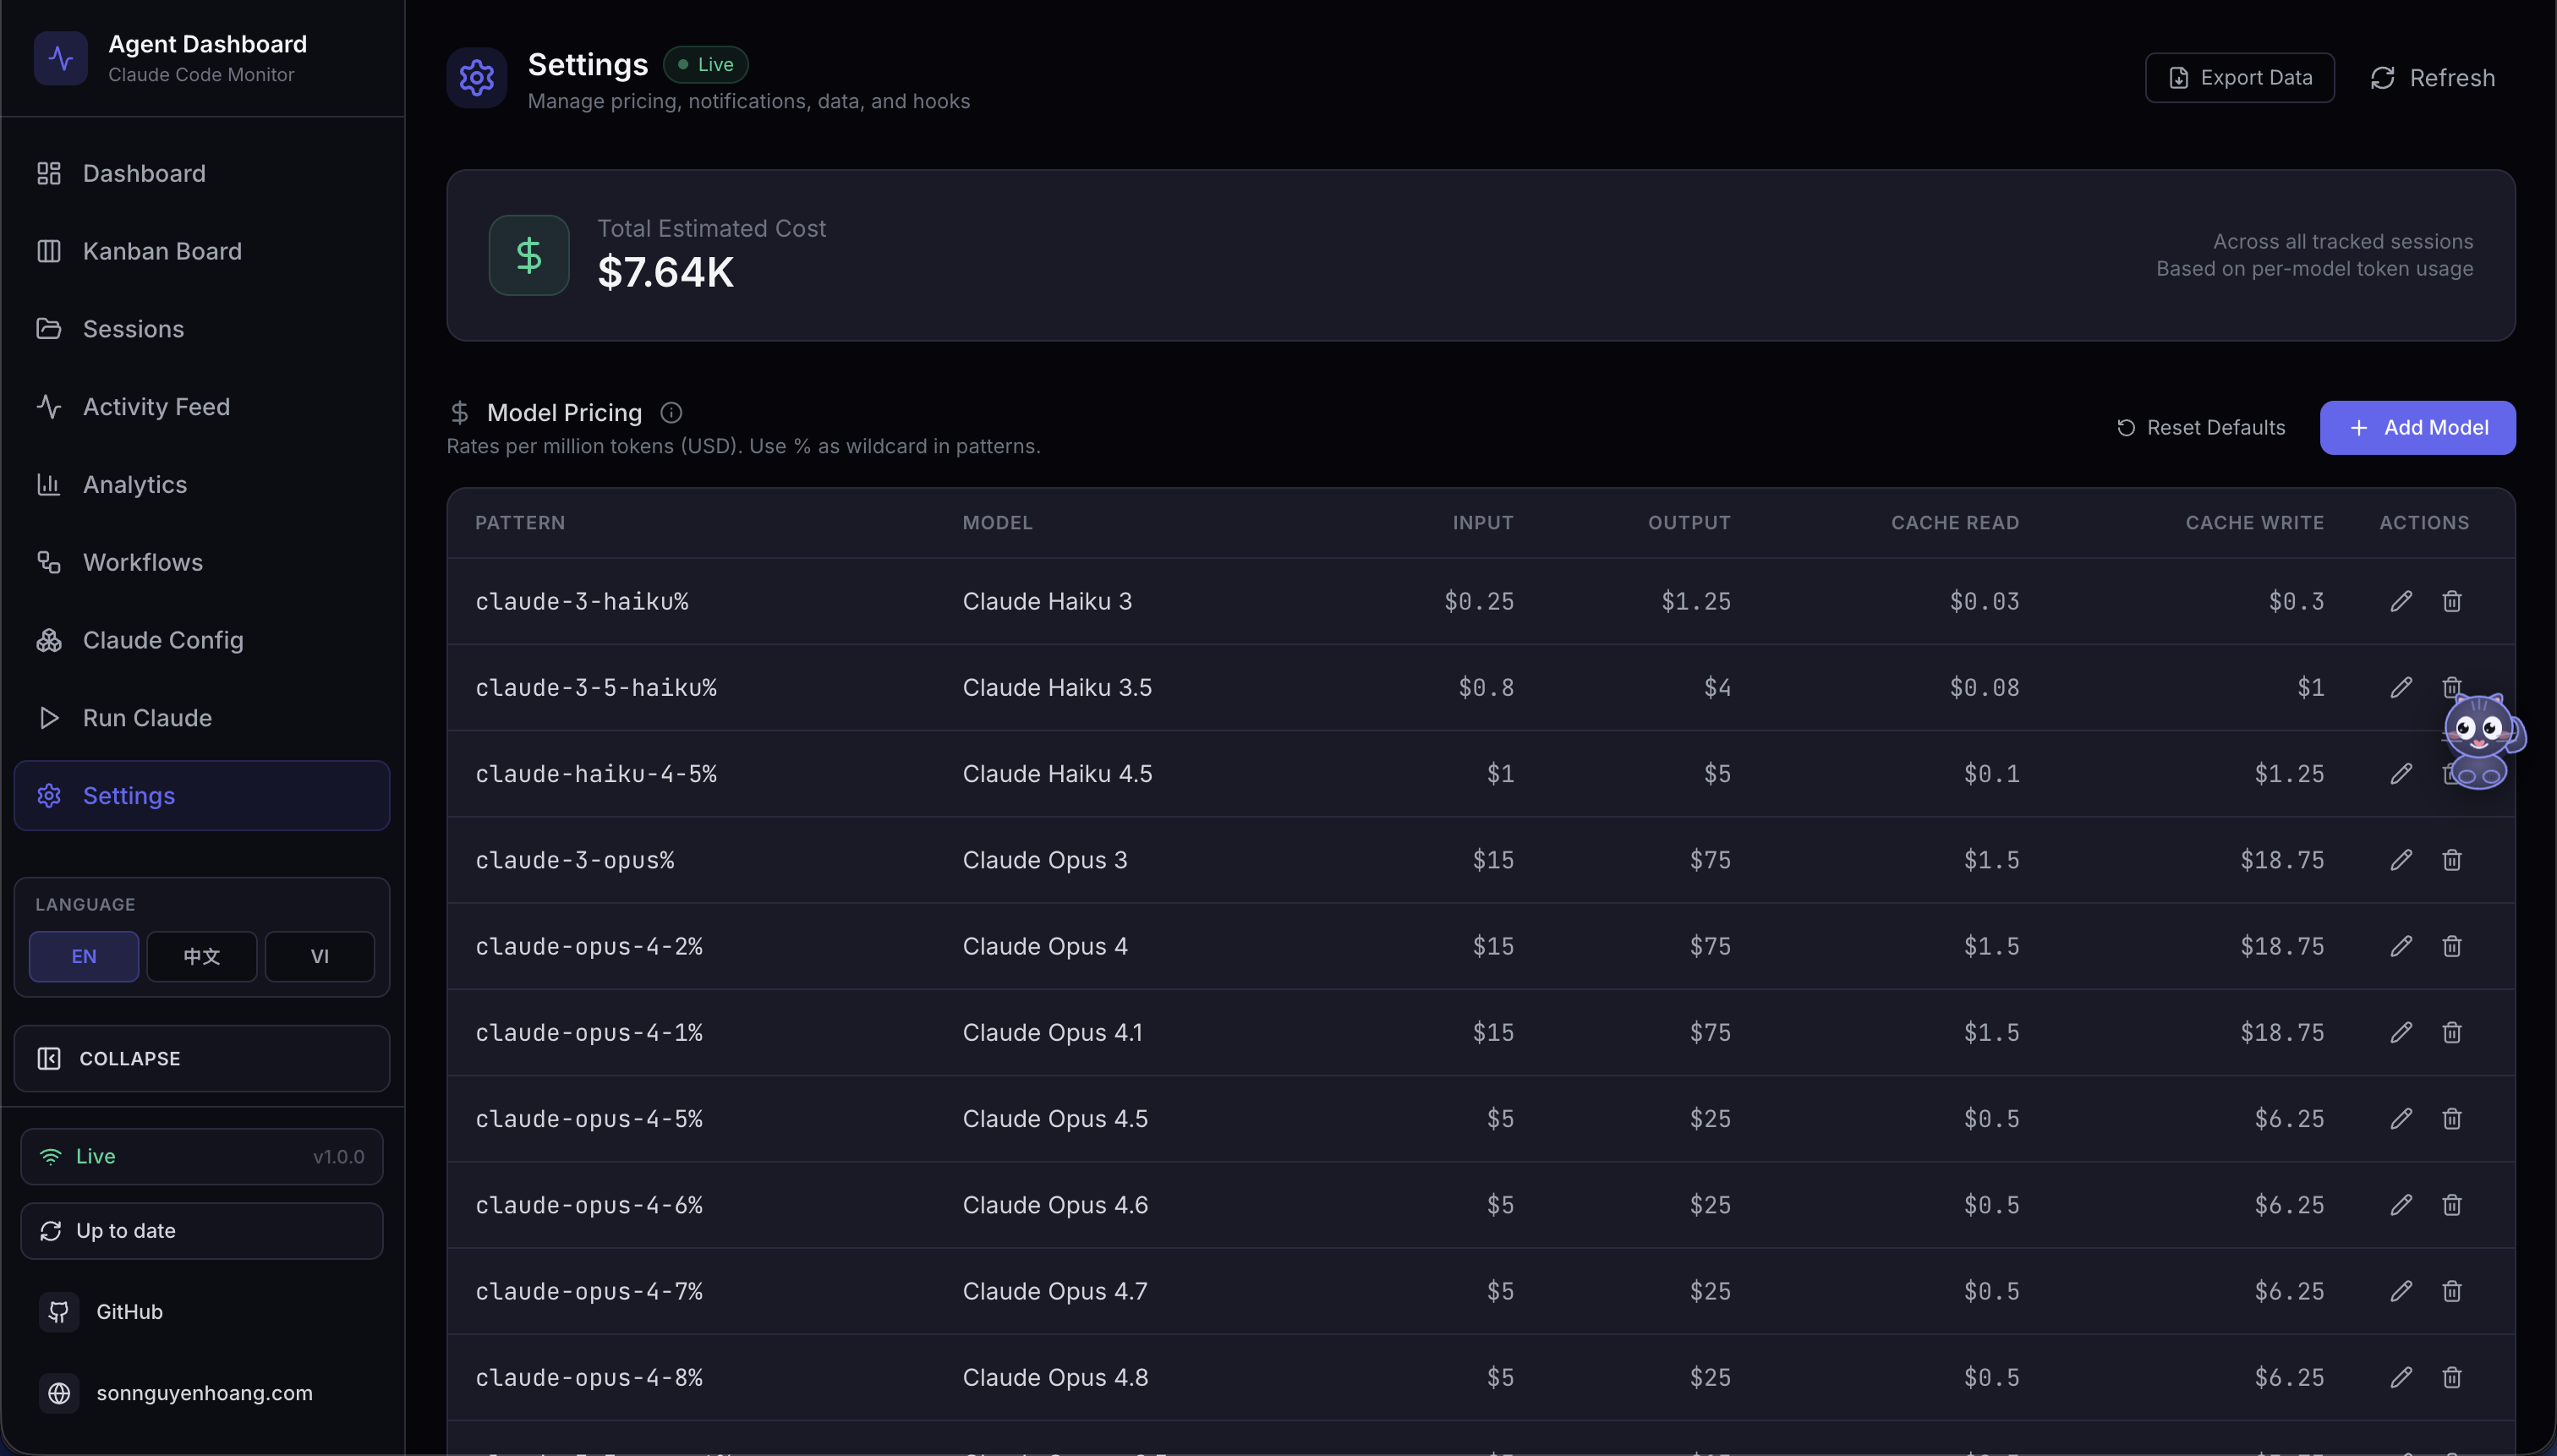
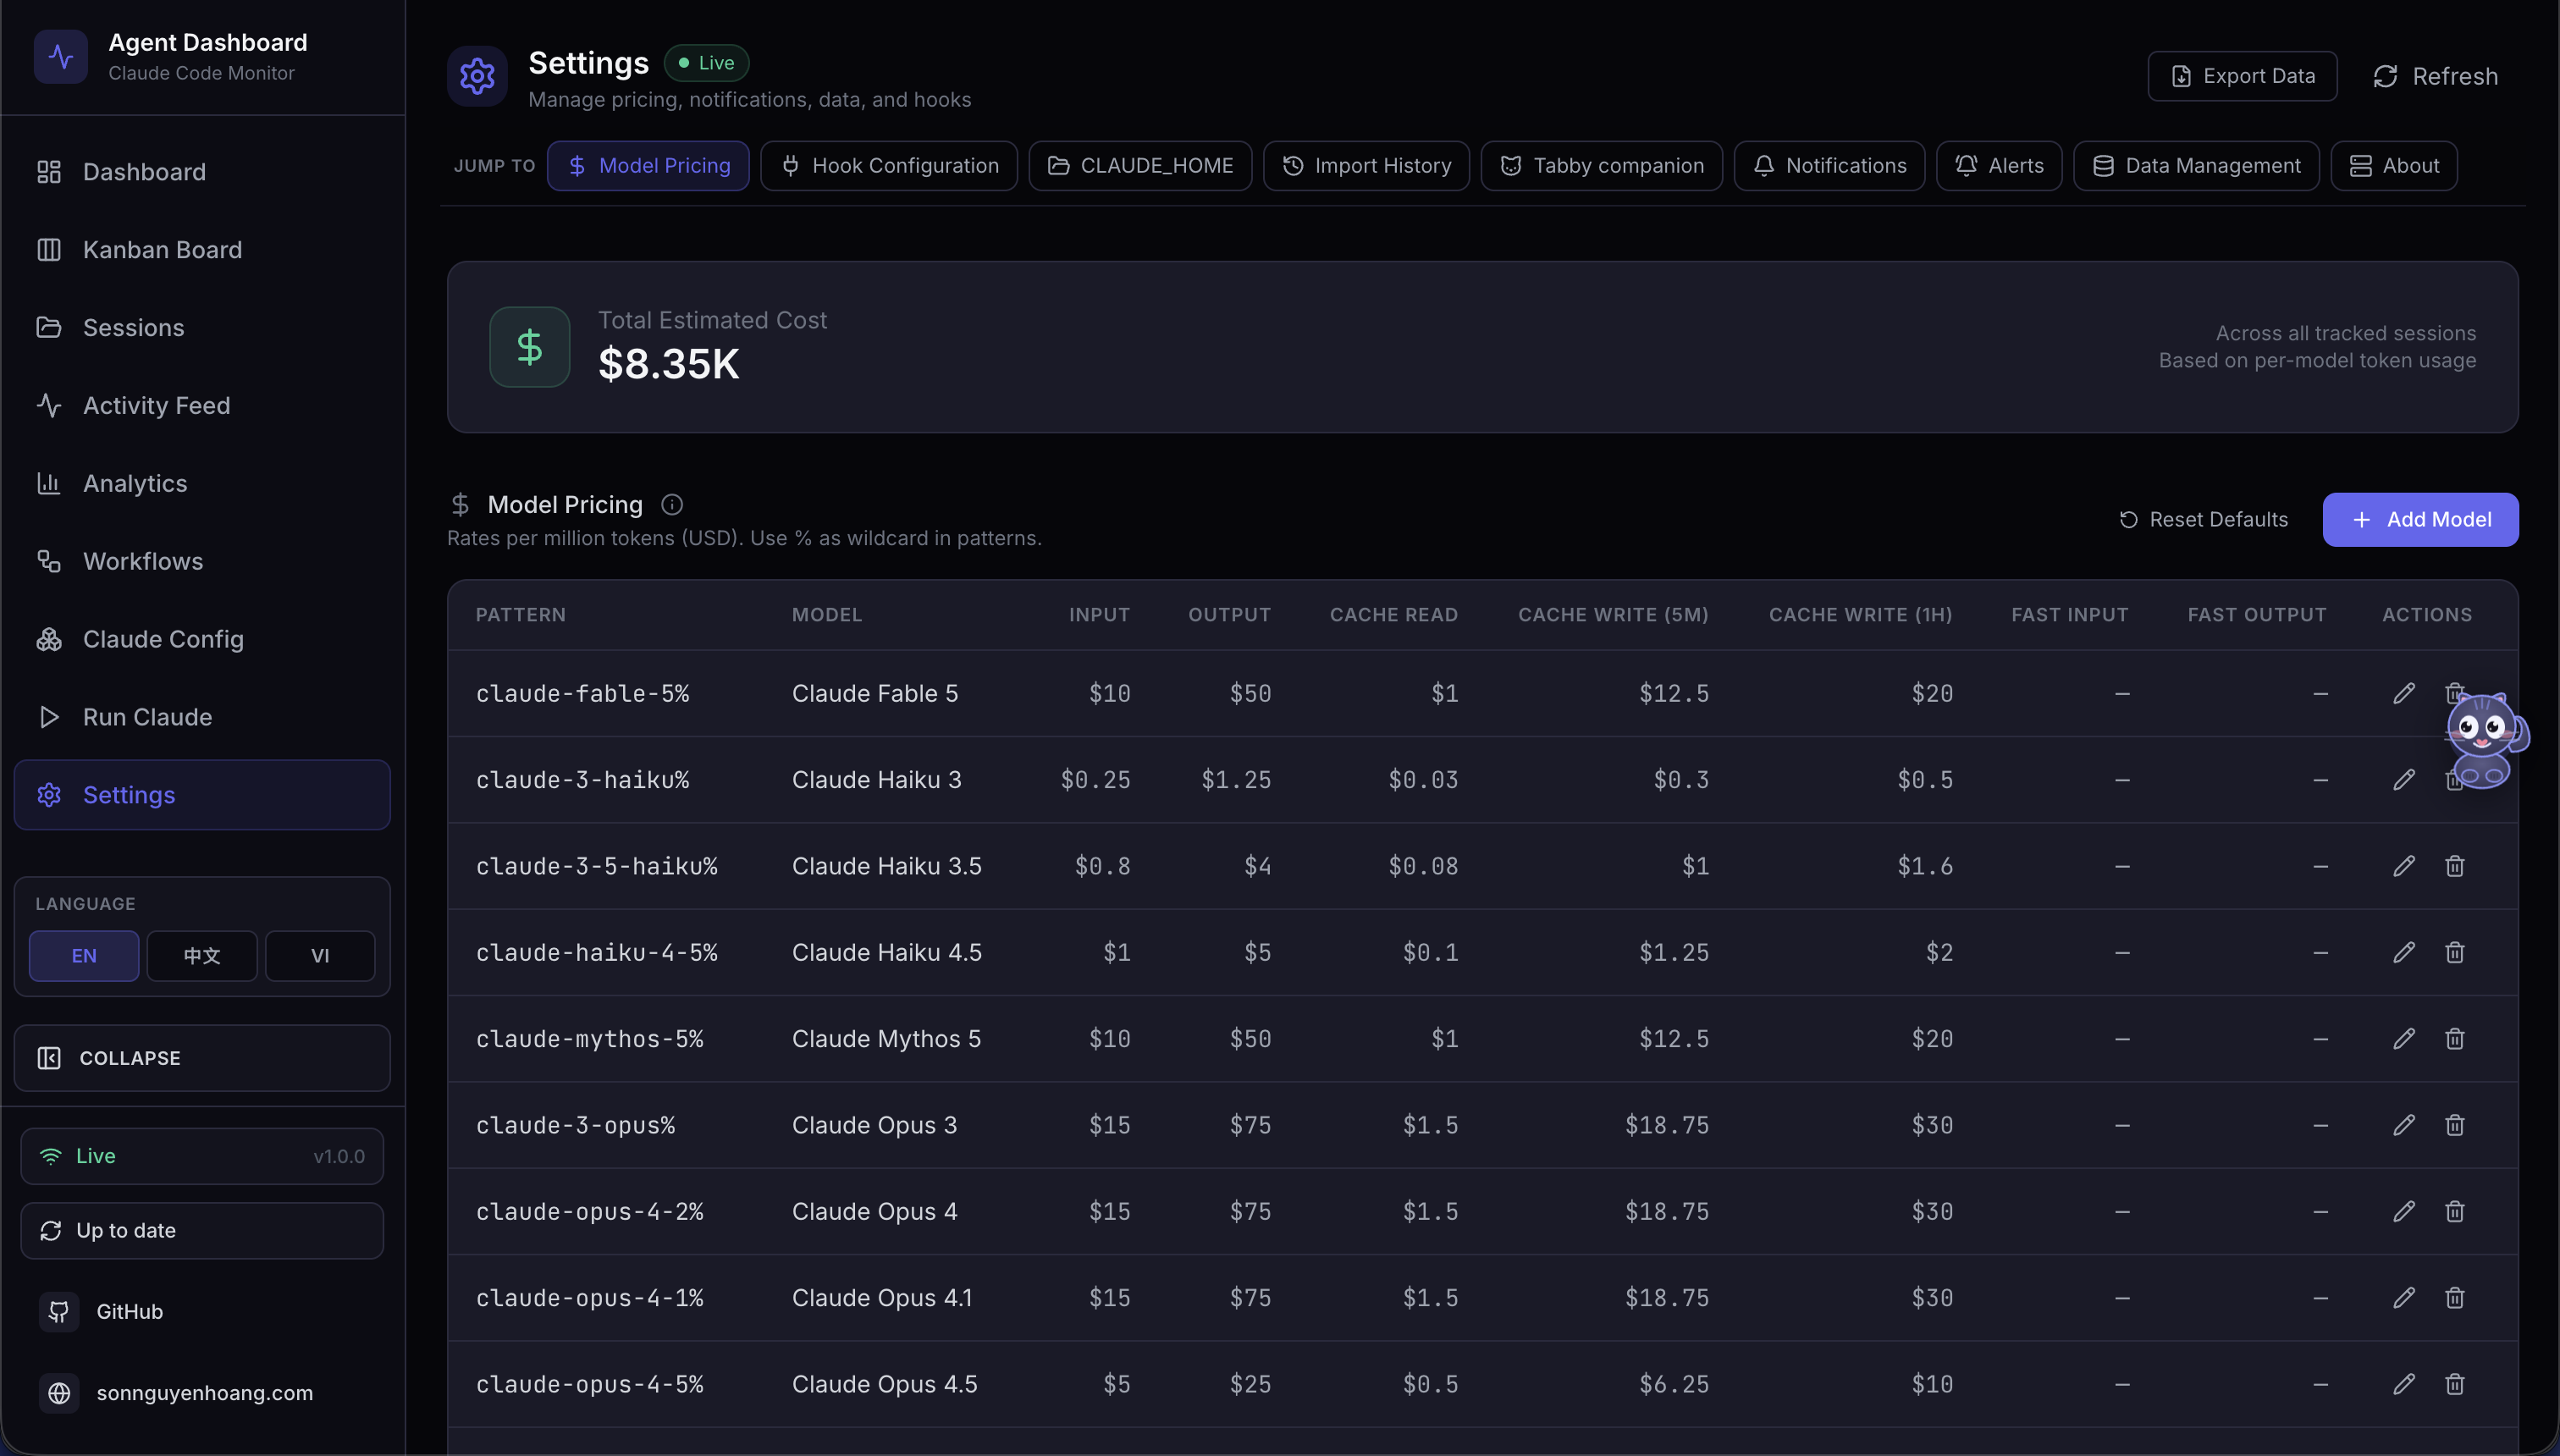
docs(landing): split "Alerts & webhooks" into two feature cards
Separate the combined card into "Rules-based alerts" (engine, conditions,
cooldown dedup, live feed + ack) and "Universal webhooks" (14 providers + generic,
per-platform payloads, HMAC, test probe, delivery log) for clearer scannability.

diff --git a/index.html b/index.html
@@ -2646,14 +2646,23 @@
           </div>
           <div class="feature-card">
             <div class="feature-icon amber">🔔</div>
-            <h3>Alerts &amp; webhooks</h3>
+            <h3>Rules-based alerts</h3>
             <p>
-              Rules-based alerting on the live event stream - error bursts, stuck agents, idle
-              sessions, token thresholds - with per-scope cooldown dedup. Fired alerts fan out to
-              <strong>14 first-class webhook providers</strong> (Slack, Discord, Teams, Google Chat,
-              Mattermost, Rocket.Chat, Telegram, PagerDuty, Opsgenie, Splunk On-Call, Zapier, Make,
-              n8n, Pipedream) plus any generic endpoint - per-platform payloads, optional HMAC
-              signing, a one-click test probe, and a recorded delivery log.
+              Server-side alerting on the live event stream - error bursts, stuck agents, idle
+              sessions, and token thresholds - with per-(rule, session, agent) cooldown dedup. Fired
+              alerts surface in a live feed with acknowledge / acknowledge-all and link back to the
+              session that triggered them.
+            </p>
+          </div>
+          <div class="feature-card">
+            <div class="feature-icon violet">🔗</div>
+            <h3>Universal webhooks</h3>
+            <p>
+              Fan fired alerts out to <strong>14 first-class providers</strong> - Slack, Discord,
+              Teams, Google Chat, Mattermost, Rocket.Chat, Telegram, PagerDuty, Opsgenie, Splunk
+              On-Call, Zapier, Make, n8n, Pipedream - plus any generic endpoint. Per-platform
+              payloads, optional HMAC-SHA256 signing, a one-click test probe, and a recorded
+              delivery log.
             </p>
           </div>
           <div class="feature-card">